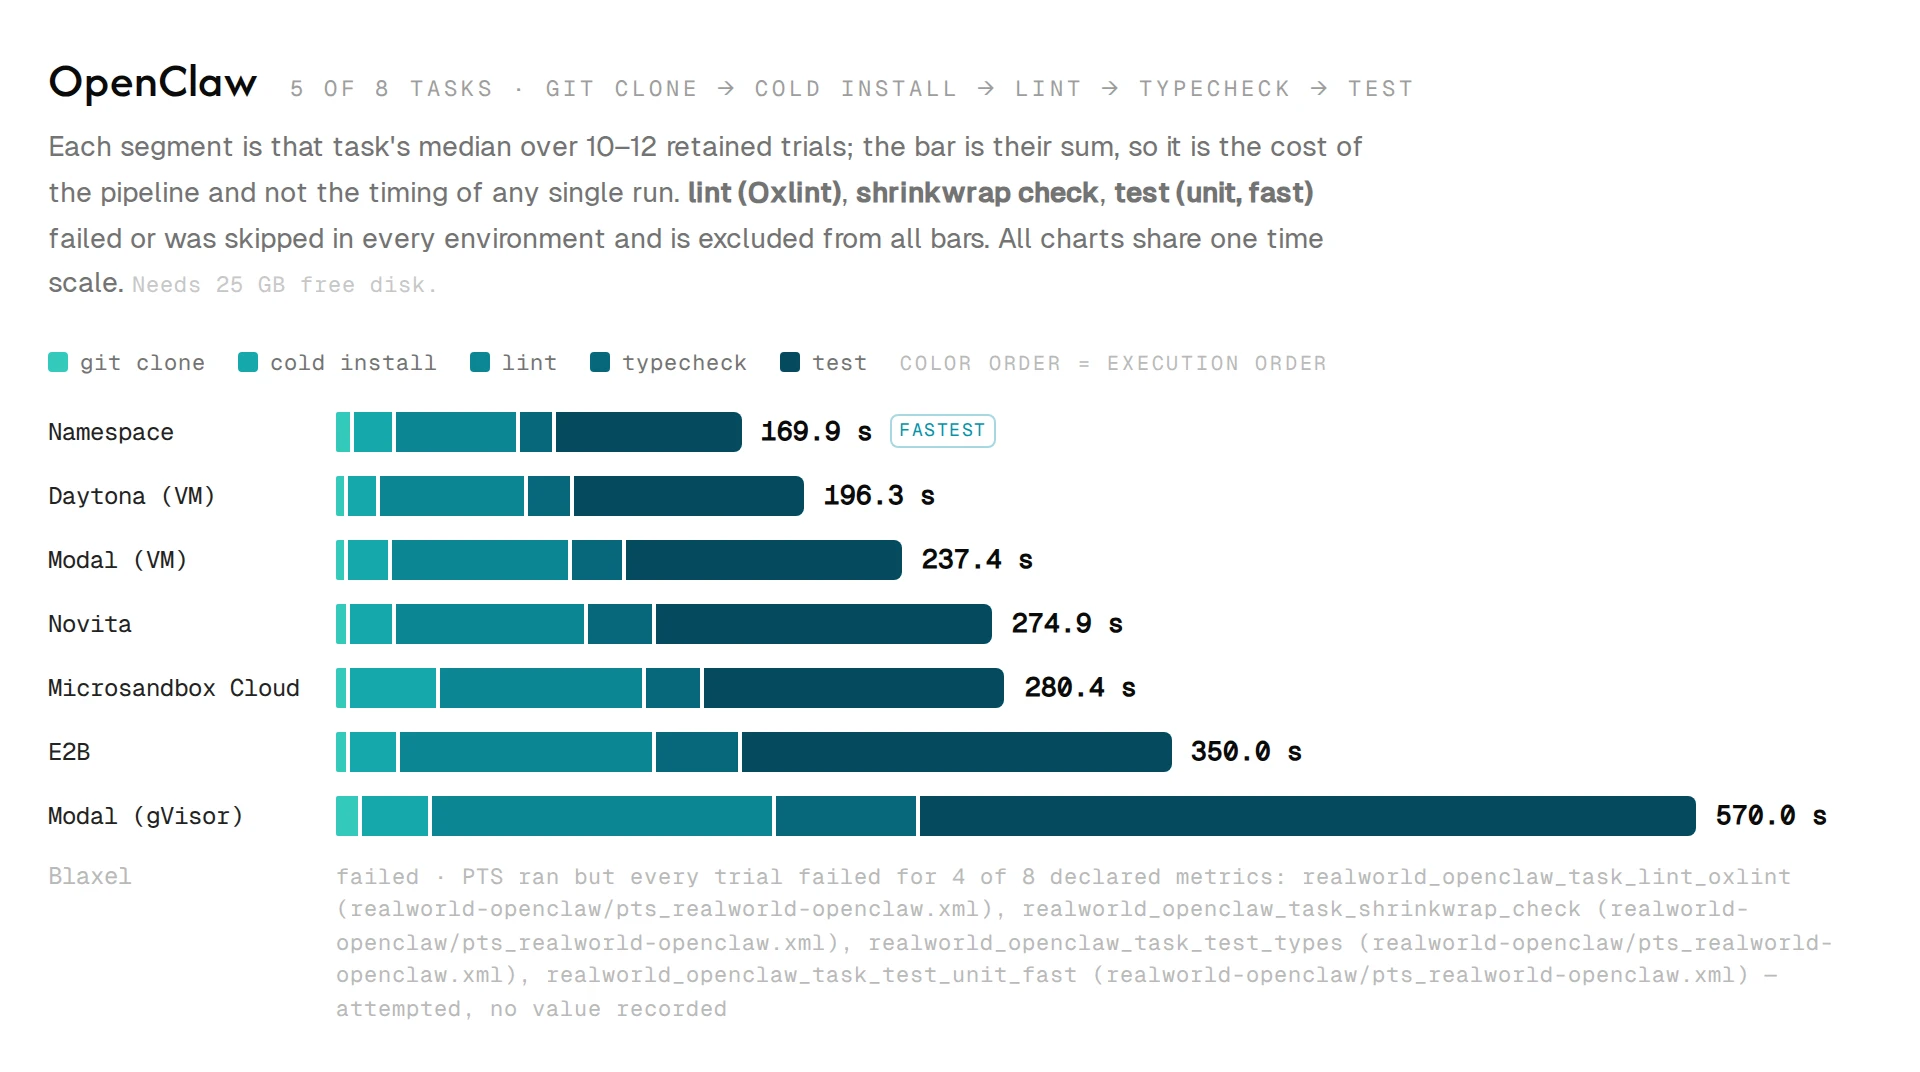
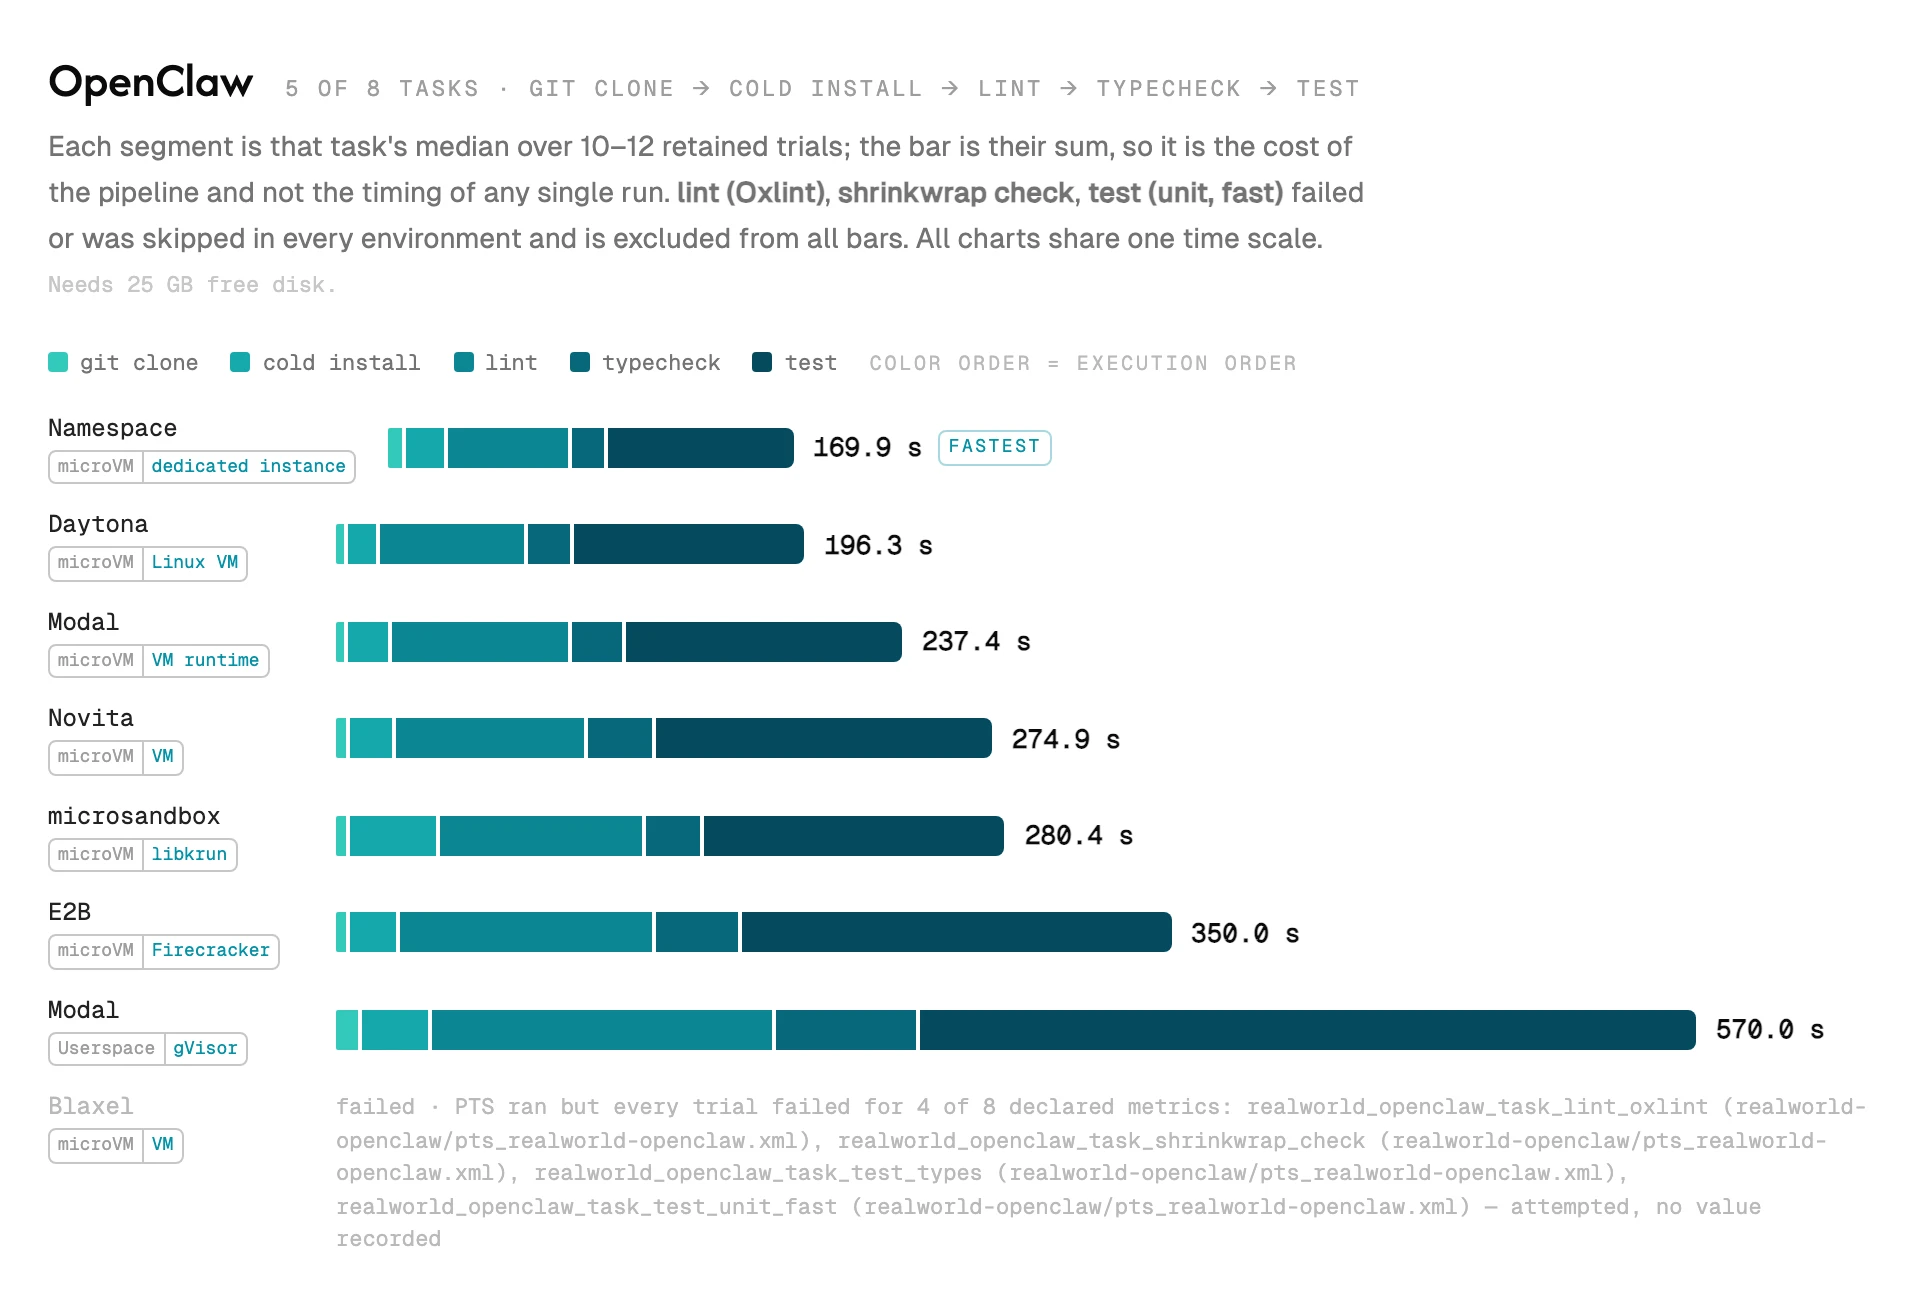
feat(results): pass declared isolation into the figures, and redraw them (#325)
**Provider isolation on the realworld figures — a chart should say what each bar was confined by.**

Shipped as a 5-PR stack (merge bottom-up, each branch independently green):
1. #321 — ci: run the Chrome-backed figures suite as its own step
2. #322 — precondition: pin that the probe's isolation fields survive shard aggregation
3. #323 — model: derive a provider's isolation chip (observed runtime, else registry declaration)
4. #324 — render: draw the chip under each provider's bar label
5. #325 — wiring: pass the registry declaration through, and commit the redrawn figures

Split out of `bench/provider-sandbox-detection`, whose probe half already landed as #319.

↑ **This PR is #325 (5/5)**, based on #324.

---

Wires the last input the chip needs: `benchmarkDataOf` now hands the provider
registry's declared `isolation.technology` to the figure model, so a provider whose run
observed no runtime — an older dataset, or a sandbox where the probe could not read ACPI
— still gets a chip from what the registry declares instead of silently rendering none.
Detected runtimes still win where a run has them.

Also commits the three realworld figures redrawn through the full path, which is where
the change is actually visible: each provider row now carries its isolation beneath the
vendor title.

<!-- This is an auto-generated description by cubic. -->
---
## Summary by cubic
[…]

Changed region(s): [[0.0, 0.0308, 0.9688, 0.9543], [0.5312, 0.6157, 0.5938, 0.6465]]

diff --git a/packages/results/src/lib/figures.test.ts b/packages/results/src/lib/figures.test.ts
@@ -23,7 +23,11 @@ function metric(metricId: string, samples: number[]): MetricResult {
 	return { metricId, samples, aggregates: aggregate(samples) };
 }
 
-function provider(providerId: string, metrics: MetricResult[]): ProviderRun {
+function provider(
+	providerId: string,
+	metrics: MetricResult[],
+	over: Partial<ProviderRun> = {},
+): ProviderRun {
 	return {
 		providerId,
 		validationStatus: "validated",
@@ -32,6 +36,7 @@ function provider(providerId: string, metrics: MetricResult[]): ProviderRun {
 		suitesCovered: ["realworld-mastra"],
 		gaps: [],
 		uncatalogued: [],
+		...over,
 	};
 }
 
@@ -105,6 +110,53 @@ describe("leaderboardFigures", () => {
 });
 
 describe("renderLeaderboardFigureHtml", () => {
+	it("passes declared and aggregated detected isolation into figure labels", () => {
+		const withRuntime = (providerId: string, runtime: string) =>
+			provider(providerId, [metric(CLONE, [1, 2]), metric(INSTALL, [30, 32])], {
+				hostMetadata: [
+					{
+						source: "mise/system-provider",
+						sourceFile: "system/system-provider.json",
+						fields: [{ path: "isolation_runtime", value: runtime }],
+					},
+				],
+			});
+		const data = benchmarkDataOf(
+			run([
+				withRuntime("namespace", "firecracker"),
+				withRuntime("daytona-vm", "firecracker"),
+				withRuntime("modal-gvisor", "gvisor"),
+				withRuntime("microsandbox-cloud", "libkrun"),
+			]),
+		);
+		expect(data.providers).toEqual([
+			{
+				id: "namespace",
+				name: "Namespace",
+				specMatched: true,
+				isolation: { kind: "microVM", technology: "Firecracker" },
+			},
+			{
+				id: "daytona-vm",
+				name: "Daytona",
+				specMatched: true,
+				isolation: { kind: "microVM", technology: "Firecracker" },
+			},
+			{
+				id: "modal-gvisor",
+				name: "Modal",
+				specMatched: true,
+				isolation: { kind: "Userspace", technology: "gVisor" },
+			},
+			{
+				id: "microsandbox-cloud",
+				name: "microsandbox",
+				specMatched: true,
+				isolation: { kind: "microVM", technology: "libkrun" },
+			},
+		]);
+	});
+
 	it("returns one self-contained document per chartable suite, paired with its figure", () => {
 		const rendered = renderLeaderboardFigureHtml(chartableRun());
 		expect(rendered.map(({ figure }) => figure.suiteId)).toEqual(["realworld-mastra"]);

diff --git a/packages/results/src/lib/figures.ts b/packages/results/src/lib/figures.ts
@@ -93,7 +93,11 @@ export function benchmarkDataOf(run: Run): RealworldFigureModel {
 	return buildRealworldFigureModel({
 		run,
 		metrics: METRIC_CATALOG,
-		providers: PROVIDERS,
+		providers: PROVIDERS.map((provider) => ({
+			id: provider.id,
+			displayName: provider.displayName,
+			isolationTechnology: provider.isolation.technology,
+		})),
 		suites: SUITES,
 	});
 }
